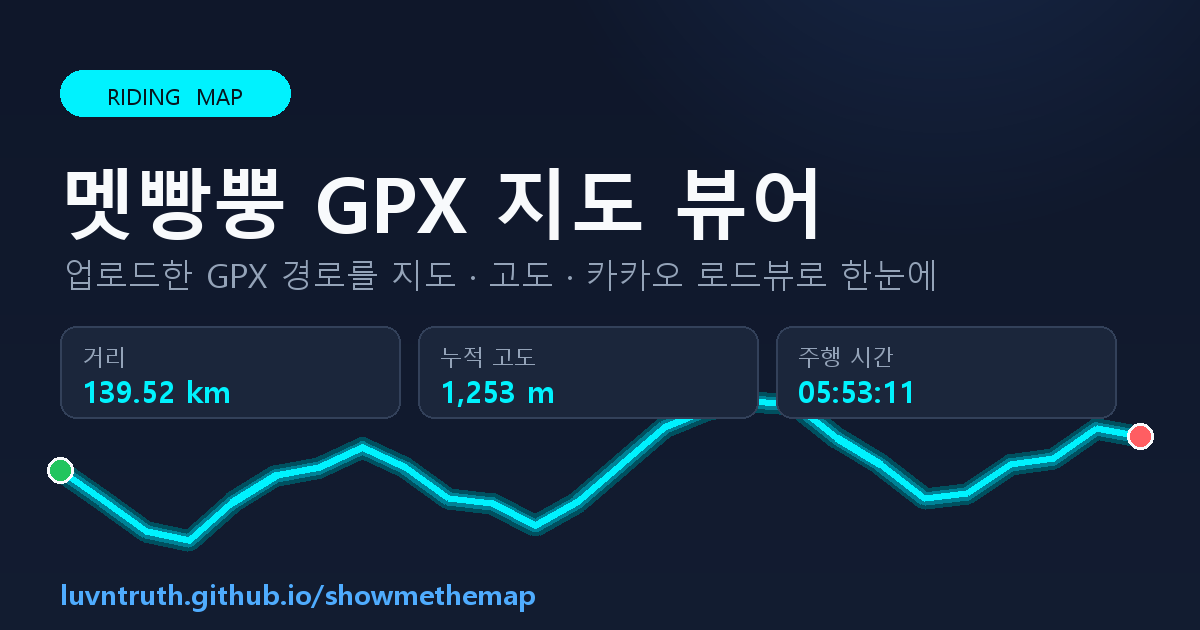
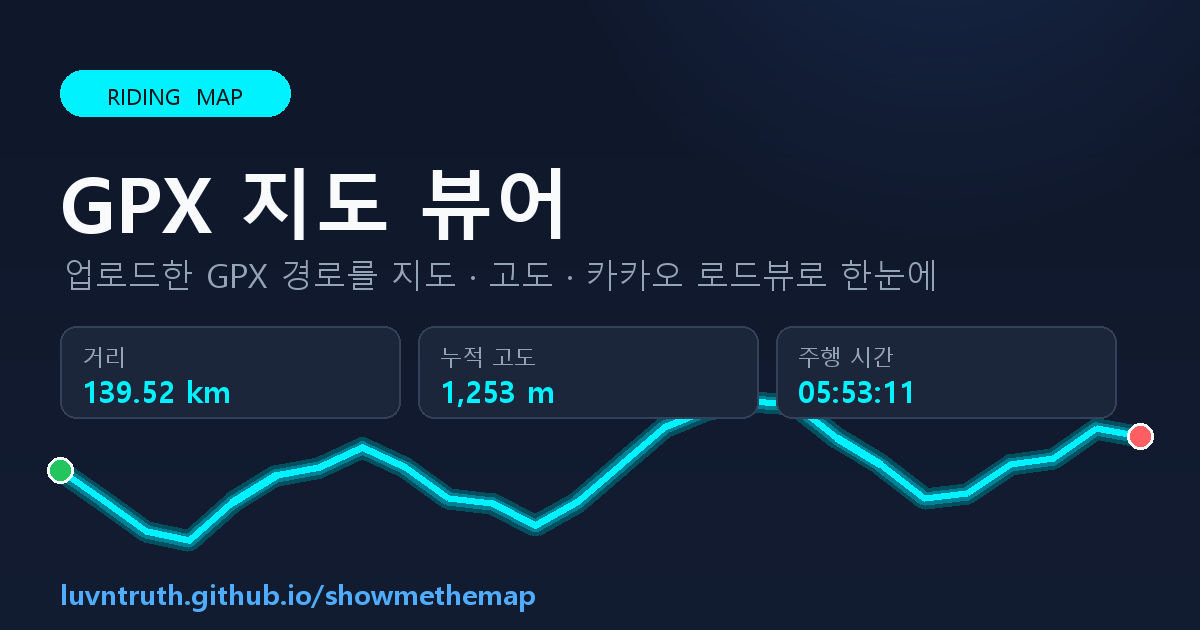
샘플 이름 '멧빵뿡' 제거 + 카카오내비 길안내 버튼 추가
- 제목/OG/헤더/파일라벨에서 '멧빵뿡' 제거 → 'GPX 지도 뷰어'로 일반화
- 헤더 부제 및 기본 데이터 라벨('샘플 경로') 정리
- 샘플 GPX 파일명 변경: 멧빵뿡.gpx → sample.gpx (parse_gpx.py 기본값 동기화)
- og-image.png 썸네일 새 제목으로 재생성
- 카카오내비 '길안내' 버튼 추가: 선택 지점으로 카카오내비 앱 실행 (모바일), Kakao JS SDK 연동

Changed region(s): [[0.0308, 0.2714, 0.6783, 0.3921]]

diff --git a/index.html b/index.html
@@ -3,7 +3,7 @@
 <head>
   <meta charset="UTF-8">
   <meta name="viewport" content="width=device-width, initial-scale=1.0">
-  <title>멧빵뿡 GPX 지도 뷰어 🚴</title>
+  <title>GPX 지도 뷰어 🚴</title>
   <meta name="description" content="업로드한 GPX 경로를 지도·고도·카카오 로드뷰로 한눈에 보는 자전거 라이딩 뷰어">
 
   <!-- 파비콘 (자전거 이모지 SVG) -->
@@ -11,8 +11,8 @@
 
   <!-- Open Graph (카카오톡·페이스북·디스코드 등 링크 미리보기) -->
   <meta property="og:type" content="website">
-  <meta property="og:site_name" content="멧빵뿡 GPX 지도 뷰어">
-  <meta property="og:title" content="멧빵뿡 GPX 지도 뷰어 🚴">
+  <meta property="og:site_name" content="GPX 지도 뷰어">
+  <meta property="og:title" content="GPX 지도 뷰어 🚴">
   <meta property="og:description" content="업로드한 GPX 경로를 지도·고도·카카오 로드뷰로 한눈에">
   <meta property="og:url" content="https://luvntruth.github.io/showmethemap/">
   <meta property="og:image" content="https://luvntruth.github.io/showmethemap/og-image.png">
@@ -22,7 +22,7 @@
 
   <!-- Twitter Card -->
   <meta name="twitter:card" content="summary_large_image">
-  <meta name="twitter:title" content="멧빵뿡 GPX 지도 뷰어 🚴">
+  <meta name="twitter:title" content="GPX 지도 뷰어 🚴">
   <meta name="twitter:description" content="업로드한 GPX 경로를 지도·고도·카카오 로드뷰로 한눈에">
   <meta name="twitter:image" content="https://luvntruth.github.io/showmethemap/og-image.png">
 
@@ -486,6 +486,14 @@
       background: #ebd200;
       box-shadow: 0 4px 10px rgba(254, 229, 0, 0.2);
     }
+    .sv-navi {
+      background: #2272eb;
+      color: white;
+    }
+    .sv-navi:hover {
+      background: #1a5fcc;
+      box-shadow: 0 4px 10px rgba(34, 114, 235, 0.25);
+    }
 
     /* 고도 관련 미니 통계 */
     .elevation-stats {
@@ -873,7 +881,7 @@
       </div>
       <div class="header-text">
         <h1>GPX 지도 뷰어</h1>
-        <p>보스를 위한 맞춤형 분석 서비스</p>
+        <p>GPX 경로 · 고도 · 로드뷰 한눈에</p>
       </div>
     </div>
 
@@ -887,7 +895,7 @@
 
     <!-- 현재 불러온 파일 정보 -->
     <div class="file-info-card">
-      <div class="file-name" id="fileName">멧빵뿡.gpx (기본 데이터)</div>
+      <div class="file-name" id="fileName">샘플 경로</div>
       <div class="file-type">GPX</div>
     </div>
 
@@ -974,6 +982,7 @@
       </div>
       <div class="streetview-buttons">
         <a id="btnKakaoRoad" class="btn-sv sv-kakao" target="_blank" onclick="return openKakaoRoadview(event)"><i class="fa-solid fa-map"></i> 카카오 로드뷰 보기</a>
+        <a id="btnKakaoNavi" class="btn-sv sv-navi" href="#" onclick="startKakaoNavi(); return false;"><i class="fa-solid fa-route"></i> 카카오내비로 안내</a>
       </div>
     </div>
 
@@ -1057,6 +1066,14 @@
         });
       };
       document.head.appendChild(kakaoScript);
+
+      // 카카오 JavaScript SDK (길안내/내비용)
+      const kakaoJsSdk = document.createElement('script');
+      kakaoJsSdk.src = 'https://t1.kakaocdn.net/kakao_js_sdk/2.7.2/kakao.min.js';
+      kakaoJsSdk.onload = () => {
+        if (window.Kakao && !Kakao.isInitialized()) Kakao.init(KAKAO_JS_KEY);
+      };
+      document.head.appendChild(kakaoJsSdk);
     }
   </script>
 
@@ -1794,6 +1811,28 @@
       document.body.classList.remove('roadview-open');
       document.getElementById('roadviewPanel').classList.remove('active');
       setTimeout(() => { if (map) map.invalidateSize(); }, 350);
+    }
+
+    // 카카오내비로 현재 선택 지점까지 길안내 (모바일에서 카카오내비 앱 실행)
+    function startKakaoNavi() {
+      if (currentLat === null || currentLon === null) {
+        alert('먼저 재생 버튼을 누르거나 경로 위를 클릭하여 지점을 선택해주세요!');
+        return;
+      }
+      if (typeof Kakao === 'undefined' || !Kakao.Navi) {
+        alert('카카오내비 길안내는 카카오내비 앱이 설치된 모바일에서 이용할 수 있어요.');
+        return;
+      }
+      try {
+        Kakao.Navi.start({
+          name: 'GPX 경로 지점',
+          x: currentLon,
+          y: currentLat,
+          coordType: 'wgs84'
+        });
+      } catch (e) {
+        alert('카카오내비를 실행할 수 없습니다. 모바일에서 다시 시도해주세요.');
+      }
     }
 
     // ===== 지도/로드뷰 경계선 드래그로 크기 조절 =====

diff --git a/parse_gpx.py b/parse_gpx.py
@@ -44,7 +44,7 @@ if __name__ == '__main__':
     # 사용법: python parse_gpx.py [입력.gpx] [출력.js]
     # 인자를 생략하면 이 스크립트와 같은 폴더의 기본 파일을 사용합니다.
     base_dir = os.path.dirname(os.path.abspath(__file__))
-    gpx_path = sys.argv[1] if len(sys.argv) > 1 else os.path.join(base_dir, "멧빵뿡.gpx")
+    gpx_path = sys.argv[1] if len(sys.argv) > 1 else os.path.join(base_dir, "sample.gpx")
     out_path = sys.argv[2] if len(sys.argv) > 2 else os.path.join(base_dir, "points.js")
 
     points = parse_gpx(gpx_path)